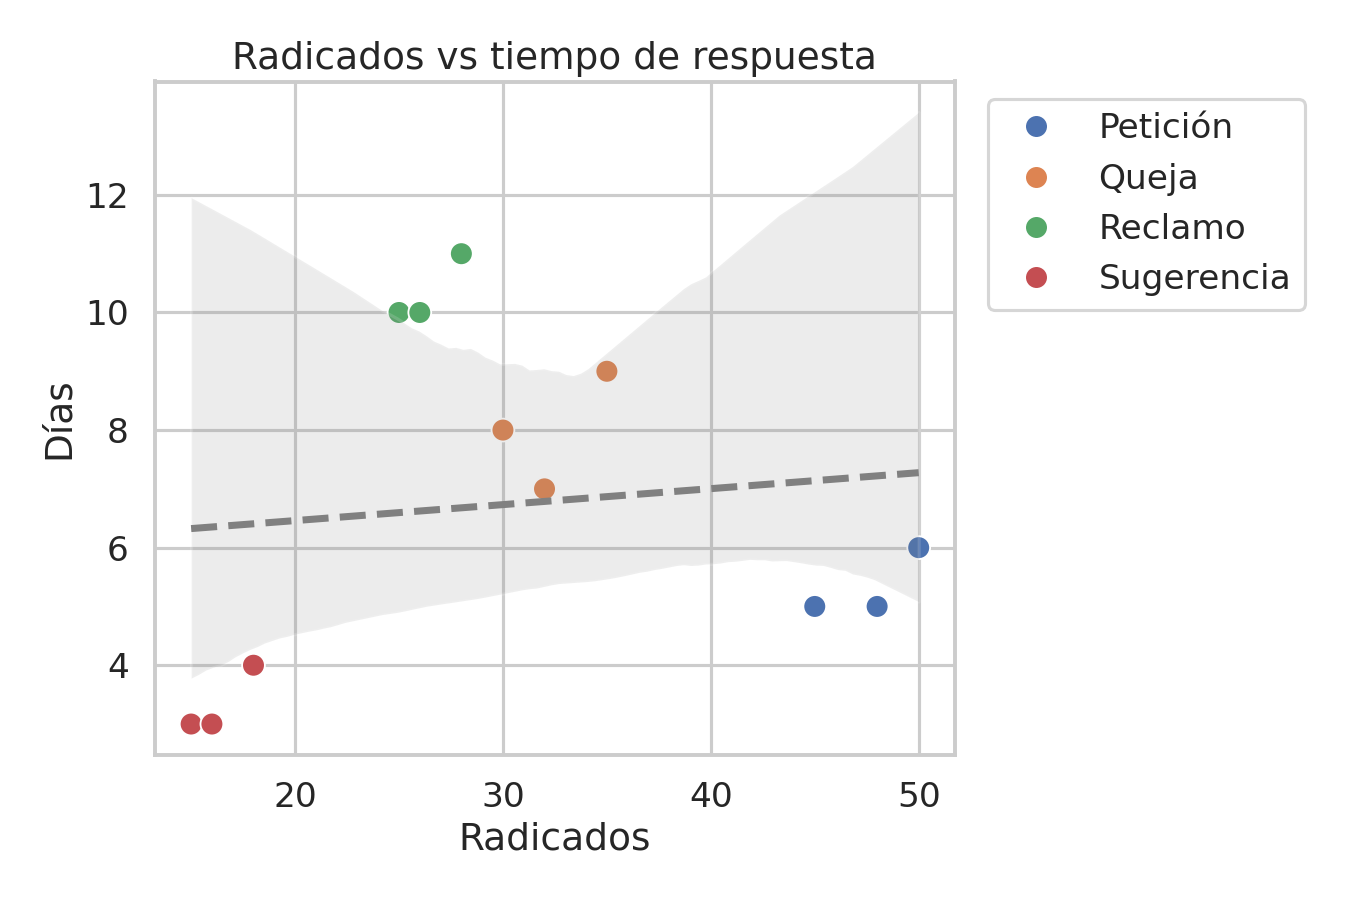
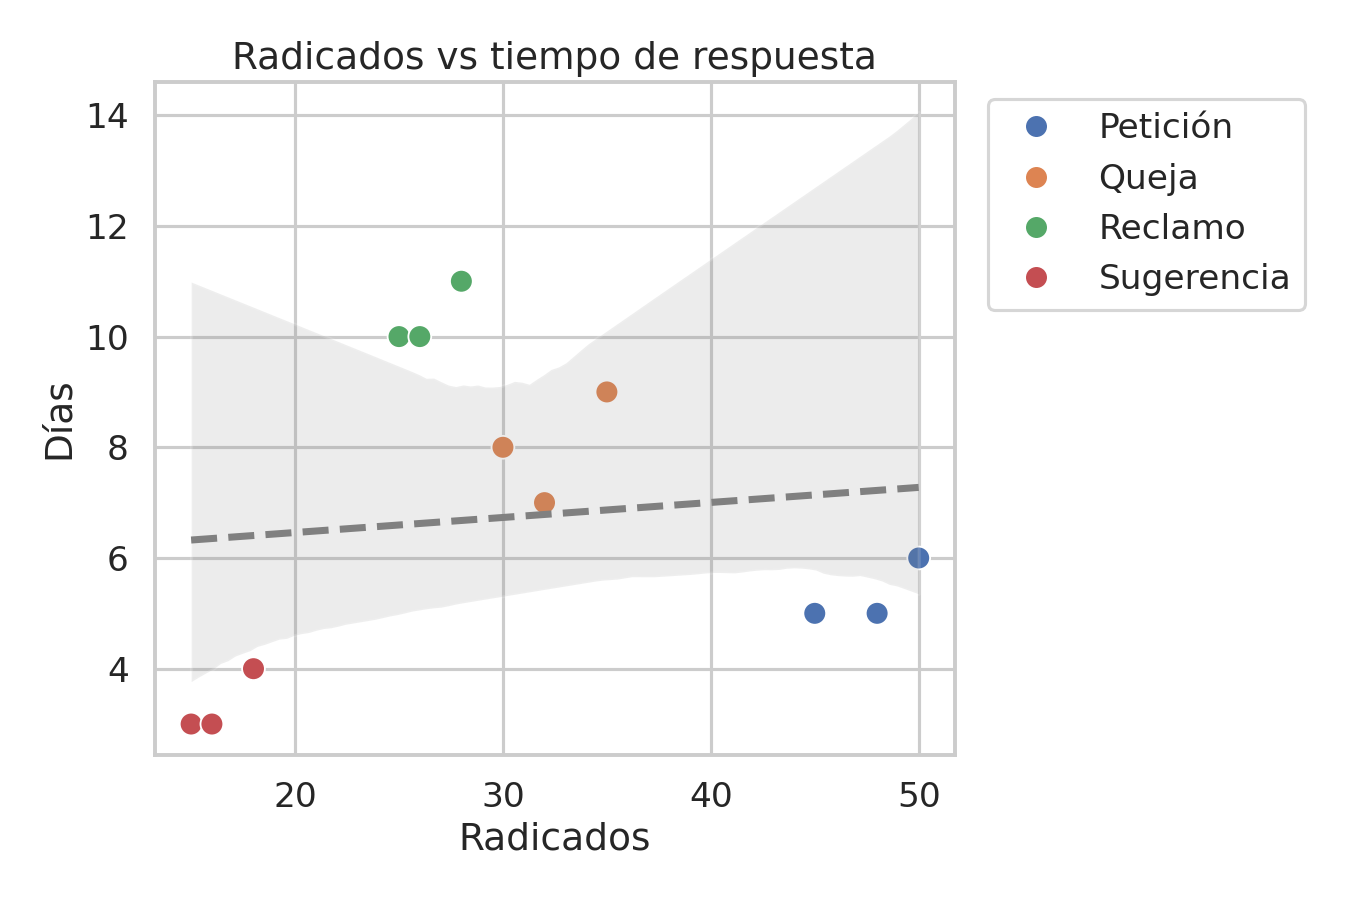
Avance 2: limpieza con tabla antes/después y gráficos Seaborn

diff --git a/src/preparacion_pqrs.py b/src/preparacion_pqrs.py
@@ -1,13 +1,14 @@
 """
 preparacion_pqrs.py
-Clase 7: Pandas, Seaborn y preparación de datos para Machine Learning.
+Clase 7 + Avance 2: Pandas, Seaborn y preparación de datos para Machine Learning.
 
-Carga el CSV de PQRS de Cartago, lo explora, lo limpia, genera
-visualizaciones con Seaborn y lo deja listo para un futuro modelo.
+Carga el CSV de PQRS de Cartago, lo inspecciona, lo limpia (con tabla antes/después),
+crea las variables del modelo, genera 5 gráficos con Seaborn y exporta:
+    data/proyecto_limpio.csv        -> dataset limpio con las variables del modelo
+    data/pqrs_preparadas_ml.csv     -> dataset codificado (get_dummies)
 
-Ubicación sugerida: src/preparacion_pqrs.py
-Ejecución (desde la raíz del proyecto, dentro del contenedor):
-    python src/preparacion_pqrs.py
+Ejecución (desde la raíz del proyecto):
+    python3 src/preparacion_pqrs.py
 """
 
 from pathlib import Path
@@ -29,37 +30,76 @@ sns.set_theme(style="whitegrid", context="talk")
 def cargar_datos(ruta_csv):
     """Carga el CSV y retorna un DataFrame (o None si no existe)."""
     try:
-        df = pd.read_csv(ruta_csv)
-        print(f"Datos cargados: {df.shape[0]} filas, {df.shape[1]} columnas.")
-        return df
+        return pd.read_csv(ruta_csv)
     except FileNotFoundError:
         print(f"Error: el archivo '{ruta_csv}' no existe.")
         return None
 
 
-def explorar_datos(df):
-    """Muestra head, info, describe y nulos por columna."""
-    print("\nPRIMERAS 5 FILAS:")
-    print(df.head())
-
-    print("\nINFORMACIÓN GENERAL:")
+def inspeccionar(df):
+    """Muestra shape, info, nulos por columna y duplicados."""
+    print(f"\nSHAPE: {df.shape[0]} filas x {df.shape[1]} columnas")
+    print("\nINFO:")
     df.info()
-
+    print("\nNULOS POR COLUMNA:")
+    print(df.isnull().sum())
+    print(f"\nDUPLICADOS: {df.duplicated().sum()}")
     print("\nESTADÍSTICAS DESCRIPTIVAS:")
     print(df.describe())
 
-    print("\nVALORES NULOS POR COLUMNA:")
-    print(df.isnull().sum())
 
-    # Hallazgo para documentar en el README
-    prom_tipo = df.groupby("tipo")["tiempo_respuesta_dias"].mean().sort_values()
-    print("\nTIEMPO PROMEDIO POR TIPO (días):")
-    print(prom_tipo.round(2))
-    print(f"-> Más lento: {prom_tipo.idxmax()} | Más rápido: {prom_tipo.idxmin()}")
+def diagnosticar(df):
+    """Revisa tipos, atípicos (IQR), valores imposibles y categorías inconsistentes."""
+    print("\nDIAGNÓSTICO")
+    print("-" * 50)
+
+    for col in ["radicados", "tiempo_respuesta_dias"]:
+        q1, q3 = df[col].quantile([0.25, 0.75])
+        iqr = q3 - q1
+        atipicos = ((df[col] < q1 - 1.5 * iqr) | (df[col] > q3 + 1.5 * iqr)).sum()
+        imposibles = (df[col] <= 0).sum()
+        print(f"{col}: rango {df[col].min()}-{df[col].max()} | atípicos (IQR): {atipicos} | valores <= 0: {imposibles}")
+
+    for col in ["tipo", "dependencia"]:
+        con_espacios = (df[col] != df[col].str.strip()).sum()
+        mal_escritas = (df[col] != df[col].str.strip().str.title()).sum()
+        print(f"{col}: {sorted(df[col].unique())} | con espacios: {con_espacios} | mayúsculas inconsistentes: {mal_escritas}")
+
+
+def limpiar(df):
+    """Aplica la limpieza: texto, duplicados, imposibles y nulos."""
+    df_l = df.copy()
+
+    # Categorías inconsistentes: sin espacios sobrantes y con mayúsculas uniformes
+    for col in ["tipo", "dependencia"]:
+        df_l[col] = df_l[col].str.strip().str.title()
+
+    # Duplicados exactos
+    antes = len(df_l)
+    df_l = df_l.drop_duplicates()
+    print(f"\nDuplicados eliminados: {antes - len(df_l)}")
+
+    # Valores imposibles: radicados o tiempos <= 0
+    antes = len(df_l)
+    df_l = df_l[(df_l["radicados"] > 0) & (df_l["tiempo_respuesta_dias"] > 0)]
+    print(f"Filas con valores imposibles eliminadas: {antes - len(df_l)}")
+
+    # Nulos: mediana en numéricas, moda en categóricas
+    for col in df_l.columns:
+        nulos = df_l[col].isnull().sum()
+        if nulos:
+            if pd.api.types.is_numeric_dtype(df_l[col]):
+                df_l[col] = df_l[col].fillna(df_l[col].median())
+            else:
+                df_l[col] = df_l[col].fillna(df_l[col].mode()[0])
+            print(f"'{col}': {nulos} nulos imputados.")
+    print(f"Nulos pendientes: {df_l.isnull().sum().sum()}")
+
+    return df_l.reset_index(drop=True)
 
 
 def clasificar_riesgo(dias):
-    """Convierte los días de respuesta en un nivel de riesgo de demora."""
+    """Nivel de riesgo de demora en 3 categorías."""
     if dias <= 5:
         return "bajo"
     if dias <= 8:
@@ -67,67 +107,59 @@ def clasificar_riesgo(dias):
     return "alto"
 
 
-def limpiar_datos(df):
-    """Maneja nulos y duplicados, y crea la columna derivada riesgo_demora."""
-    df_limpio = df.copy()
+def crear_variables(df):
+    """Crea las variables del modelo: carga_dependencia, demora_alta y riesgo_demora."""
+    df_v = df.copy()
 
-    # Duplicados exactos
-    antes = len(df_limpio)
-    df_limpio = df_limpio.drop_duplicates()
-    print(f"\nDuplicados eliminados: {antes - len(df_limpio)}")
+    # Entrada 2 del perceptrón: total de radicados que maneja la dependencia
+    df_v["carga_dependencia"] = df_v.groupby("dependencia")["radicados"].transform("sum")
 
-    # Nulos numéricos -> mediana (robusta ante valores extremos)
-    for col in df_limpio.select_dtypes(include="number").columns:
-        nulos = df_limpio[col].isnull().sum()
-        if nulos:
-            mediana = df_limpio[col].median()
-            df_limpio[col] = df_limpio[col].fillna(mediana)
-            print(f"'{col}': {nulos} nulos imputados con la mediana ({mediana}).")
+    # Objetivo 0/1: 1 si el tiempo de respuesta supera la mediana
+    mediana = df_v["tiempo_respuesta_dias"].median()
+    df_v["demora_alta"] = (df_v["tiempo_respuesta_dias"] > mediana).astype(int)
+    print(f"\nObjetivo 'demora_alta' = 1 si tiempo_respuesta_dias > {mediana} (mediana)")
+    print(df_v["demora_alta"].value_counts().sort_index().to_string())
+    print("(tiempo_respuesta_dias NO se usa como entrada: con él se calcula el objetivo)")
 
-    # Nulos categóricos -> moda
-    for col in df_limpio.select_dtypes(exclude="number").columns:
-        nulos = df_limpio[col].isnull().sum()
-        if nulos:
-            moda = df_limpio[col].mode()[0]
-            df_limpio[col] = df_limpio[col].fillna(moda)
-            print(f"'{col}': {nulos} nulos imputados con la moda ({moda}).")
+    # Categoría de 3 niveles (clase 7)
+    df_v["riesgo_demora"] = df_v["tiempo_respuesta_dias"].apply(clasificar_riesgo)
+    return df_v
 
-    if df_limpio.isnull().sum().sum() == 0:
-        print("Sin valores nulos pendientes.")
 
-    # Columna derivada: nivel de riesgo (base del futuro clasificador)
-    df_limpio["riesgo_demora"] = df_limpio["tiempo_respuesta_dias"].apply(
-        clasificar_riesgo
+def tabla_antes_despues(df_antes, df_despues):
+    """Compara filas, columnas, nulos y duplicados antes y después."""
+    tabla = pd.DataFrame(
+        {
+            "Antes": [df_antes.shape[0], df_antes.shape[1], int(df_antes.isnull().sum().sum()), int(df_antes.duplicated().sum())],
+            "Después": [df_despues.shape[0], df_despues.shape[1], int(df_despues.isnull().sum().sum()), int(df_despues.duplicated().sum())],
+        },
+        index=["Filas", "Columnas", "Nulos totales", "Duplicados"],
     )
-    print("Columna 'riesgo_demora' creada (bajo <=5, medio <=8, alto >8 días).")
-    print(df_limpio["riesgo_demora"].value_counts())
+    print("\nTABLA ANTES / DESPUÉS")
+    print(tabla)
+    return tabla
 
-    return df_limpio
 
+def visualizar(df):
+    """Genera 5 gráficos con Seaborn y los guarda en data/."""
+    mediana = df["tiempo_respuesta_dias"].median()
 
-def visualizar_datos(df):
-    """Genera 4 gráficos con Seaborn y los guarda en data/."""
-    # 1. Histograma / densidad del tiempo de respuesta
+    # 1. Histograma del tiempo de respuesta
     plt.figure(figsize=(8, 5))
     sns.histplot(data=df, x="tiempo_respuesta_dias", bins=6, kde=True, color="skyblue")
+    plt.axvline(mediana, color="red", linestyle="--", label=f"Mediana = {mediana}")
     plt.title("Distribución del tiempo de respuesta")
     plt.xlabel("Días")
     plt.ylabel("Frecuencia")
+    plt.legend()
     plt.tight_layout()
     plt.savefig(DIR_SALIDA / "sns_histograma_tiempo.png", dpi=150)
     plt.close()
 
     # 2. Barras: tiempo promedio por tipo de trámite
     plt.figure(figsize=(9, 6))
-    sns.barplot(
-        data=df,
-        x="tipo",
-        y="tiempo_respuesta_dias",
-        hue="tipo",
-        errorbar=None,
-        palette="viridis",
-        legend=False,
-    )
+    sns.barplot(data=df, x="tipo", y="tiempo_respuesta_dias", hue="tipo",
+                errorbar=None, palette="viridis", legend=False)
     plt.title("Tiempo promedio de respuesta por tipo")
     plt.xlabel("Tipo de trámite")
     plt.ylabel("Días promedio")
@@ -135,7 +167,7 @@ def visualizar_datos(df):
     plt.savefig(DIR_SALIDA / "sns_barras_tipo.png", dpi=150)
     plt.close()
 
-    # 3. Boxplot: distribución por dependencia
+    # 3. Boxplot por dependencia
     plt.figure(figsize=(9, 6))
     sns.boxplot(data=df, x="dependencia", y="tiempo_respuesta_dias")
     plt.title("Tiempo de respuesta por dependencia")
@@ -146,19 +178,11 @@ def visualizar_datos(df):
     plt.savefig(DIR_SALIDA / "sns_boxplot_dependencia.png", dpi=150)
     plt.close()
 
-    # 4. Dispersión: radicados vs tiempo, con línea de tendencia
+    # 4. Dispersión: radicados vs tiempo
     plt.figure(figsize=(9, 6))
-    sns.scatterplot(
-        data=df, x="radicados", y="tiempo_respuesta_dias", hue="tipo", s=120
-    )
-    sns.regplot(
-        data=df,
-        x="radicados",
-        y="tiempo_respuesta_dias",
-        scatter=False,
-        color="gray",
-        line_kws={"linestyle": "--"},
-    )
+    sns.scatterplot(data=df, x="radicados", y="tiempo_respuesta_dias", hue="tipo", s=120)
+    sns.regplot(data=df, x="radicados", y="tiempo_respuesta_dias", scatter=False,
+                color="gray", line_kws={"linestyle": "--"})
     plt.title("Radicados vs tiempo de respuesta")
     plt.xlabel("Radicados")
     plt.ylabel("Días")
@@ -167,44 +191,51 @@ def visualizar_datos(df):
     plt.savefig(DIR_SALIDA / "sns_dispersion_radicados.png", dpi=150)
     plt.close()
 
+    # 5. Entradas del modelo vs objetivo (demora_alta)
+    plt.figure(figsize=(9, 6))
+    sns.scatterplot(data=df, x="radicados", y="carga_dependencia", hue="demora_alta",
+                    style="dependencia", palette={0: "tab:green", 1: "tab:red"}, s=170)
+    plt.title("Entradas del modelo según la demora (0 = no, 1 = alta)")
+    plt.xlabel("Radicados")
+    plt.ylabel("Carga de la dependencia (total de radicados)")
+    plt.legend(bbox_to_anchor=(1.02, 1), loc="upper left", fontsize=11)
+    plt.tight_layout()
+    plt.savefig(DIR_SALIDA / "sns_entradas_vs_objetivo.png", dpi=150)
+    plt.close()
+
     print("\nGráficos guardados en data/ (prefijo sns_).")
 
 
 def preparar_ml(df):
-    """Codifica variables categóricas y deja el DataFrame numérico."""
+    """Codifica las variables categóricas (get_dummies) y guarda el CSV."""
     df_ml = df.copy()
-
-    # Label Encoding para la variable ordinal
-    orden = {"bajo": 0, "medio": 1, "alto": 2}
-    df_ml["riesgo_demora"] = df_ml["riesgo_demora"].map(orden)
-
-    # One-Hot Encoding para variables nominales
-    df_ml = pd.get_dummies(
-        df_ml, columns=["tipo", "dependencia"], prefix=["tipo", "dep"], dtype=int
-    )
-    print("\nCodificación aplicada: One-Hot (tipo, dependencia) y Label (riesgo_demora).")
-    print(df_ml.head())
-    return df_ml
+    df_ml["riesgo_demora"] = df_ml["riesgo_demora"].map({"bajo": 0, "medio": 1, "alto": 2})
+    df_ml = pd.get_dummies(df_ml, columns=["tipo", "dependencia"], prefix=["tipo", "dep"], dtype=int)
+    df_ml.to_csv(DIR_SALIDA / "pqrs_preparadas_ml.csv", index=False)
+    print(f"Dataset codificado guardado: data/pqrs_preparadas_ml.csv ({df_ml.shape[1]} columnas)")
 
 
 def main():
     print("=" * 60)
-    print("PREPARACIÓN DE DATOS PARA ML - PQRS CARTAGO")
+    print("PREPARACIÓN DE DATOS - PQRS CARTAGO (AVANCE 2)")
     print("=" * 60)
 
     df = cargar_datos(RUTA_CSV)
     if df is None:
         return
 
-    explorar_datos(df)
-    df_limpio = limpiar_datos(df)
-    visualizar_datos(df_limpio)
-    df_ml = preparar_ml(df_limpio)
+    inspeccionar(df)
+    diagnosticar(df)
+    df_limpio = limpiar(df)
+    df_limpio = crear_variables(df_limpio)
+    tabla_antes_despues(df, df_limpio)
 
-    salida = DIR_SALIDA / "pqrs_preparadas_ml.csv"
-    df_ml.to_csv(salida, index=False)
-    print(f"\nDataset preparado guardado en '{salida}'")
-    print("Proceso completado exitosamente.")
+    df_limpio.to_csv(DIR_SALIDA / "proyecto_limpio.csv", index=False)
+    print("\nDataset limpio guardado: data/proyecto_limpio.csv")
+
+    visualizar(df_limpio)
+    preparar_ml(df_limpio)
+    print("\nProceso completado exitosamente.")
 
 
 if __name__ == "__main__":
